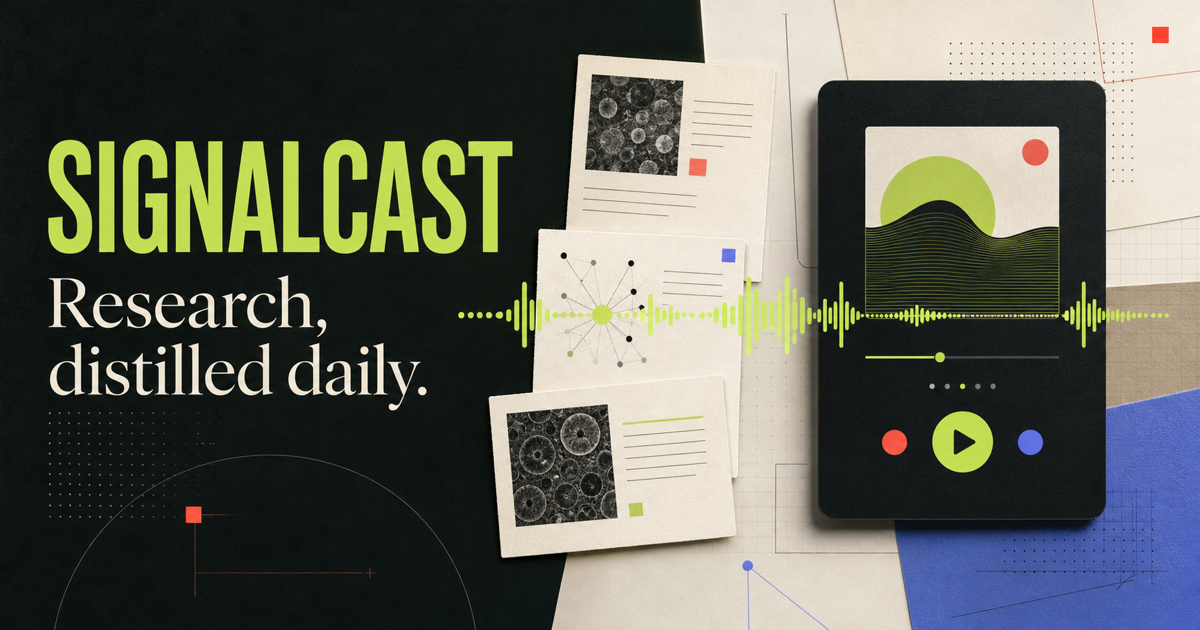
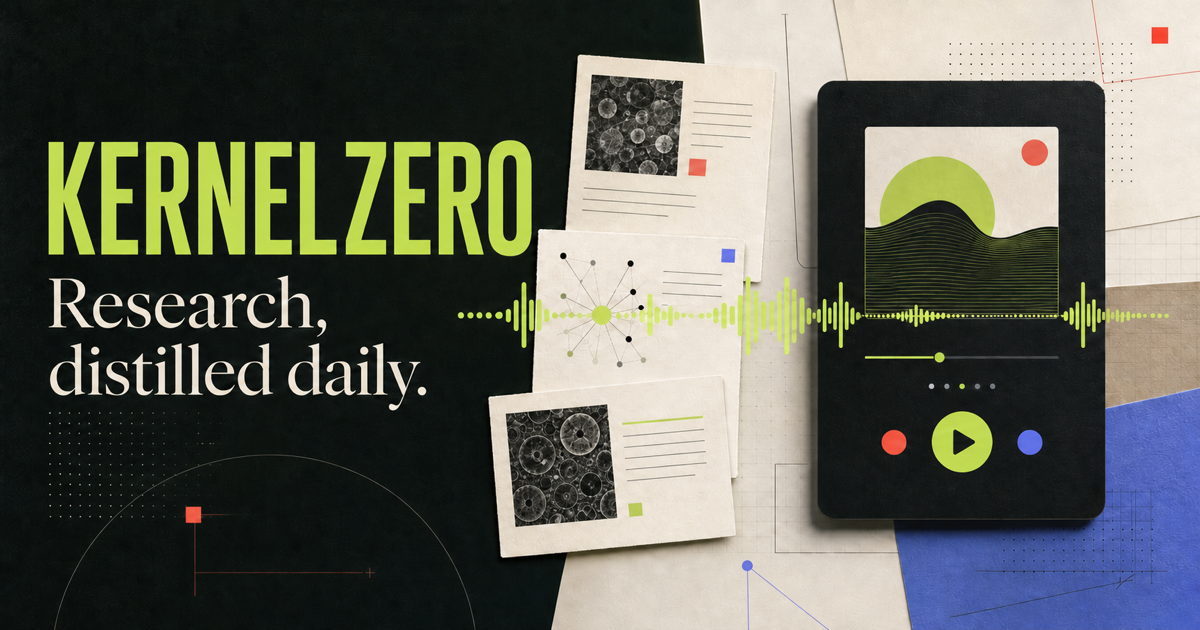
Identity pivot (#2)
* transcript enhanced and fixes

* vercel analytics added

* identity pivot

* removed AI depdency texts

diff --git a/lib/ollama.ts b/lib/ollama.ts
@@ -323,7 +323,7 @@ async function chat(
 const sectionPlans = [
   {
     title: "Why this matters",
-    direction: "Open with a concrete human hook, then include one brief, naturally worded sentence disclosing that the episode was written and narrated with AI. Include the same disclosure in the show notes, and never lead with it. Identify the central themes at a high level and explain why listeners should care. This is an overview only: do not include benchmark names, model names, detailed events, methods, findings, examples, or numbers that belong in later sections.",
+    direction: "Open with a concrete human hook. Identify the central themes at a high level and explain why listeners should care. This is an overview only: do not include benchmark names, model names, detailed events, methods, findings, examples, or numbers that belong in later sections.",
   },
   {
     title: "Background",
@@ -445,8 +445,8 @@ export function normalizePodcastPlan(
     };
   });
   const fallbackTitle = items[0]?.title
-    ? `SignalCast: ${items[0].title}`
-    : "SignalCast technology briefing";
+    ? `KernelZero: ${items[0].title}`
+    : "KernelZero technology briefing";
 
   return {
     title: typeof raw.title === "string" && raw.title.trim()
@@ -1369,8 +1369,6 @@ export async function createStructuredPodcast(
     dek: podcastPlan.dek,
     script: reviewedSections.map((section) => section.script.trim()).join("\n\n"),
     showNotes: [
-      "This episode was written and narrated with AI, then held for human review.",
-      "",
       "Sources:",
       ...items.map((item, index) => `${index + 1}. ${item.title} — ${item.canonicalUrl}`),
     ].join("\n"),
@@ -1433,7 +1431,7 @@ export async function synthesizeSpeech(script: string): Promise<ArrayBuffer> {
   if (process.platform !== "darwin") {
     throw new Error("Local speech synthesis currently requires macOS.");
   }
-  const workDir = await mkdtemp(join(tmpdir(), "signalcast-audio-"));
+  const workDir = await mkdtemp(join(tmpdir(), "kernelzero-audio-"));
   const scriptPath = join(workDir, "script.txt");
   const aiffPath = join(workDir, "speech.aiff");
   const mp3Path = join(workDir, "speech.mp3");

diff --git a/tests/core.test.ts b/tests/core.test.ts
@@ -450,7 +450,7 @@ test("draft regeneration payload preserves the current topic, text, and sources"
     durationSeconds: 180,
     status: "needs_approval",
     publishedAt: null,
-    immutableGuid: "signalcast:episode-current",
+    immutableGuid: "kernelzero:episode-current",
     generation: 3,
     createdAt: "2026-07-28T00:00:00.000Z",
   };
@@ -521,7 +521,7 @@ test("generation response keeps returned audio when refreshed state is stale", (
     durationSeconds: 488,
     status: "needs_approval",
     publishedAt: null,
-    immutableGuid: "signalcast:episode-regenerated",
+    immutableGuid: "kernelzero:episode-regenerated",
     generation: 2,
     createdAt: "2026-07-28T00:00:00.000Z",
   };
@@ -1001,7 +1001,7 @@ test("Ollama pipeline fans out writers and fans in parallel critics", async () =
     const user = body.messages[1]?.content ?? "";
     if (system.includes("planning editor")) {
       return ndjson({
-        title: "Parallel SignalCast",
+        title: "Parallel KernelZero",
         dek: "A quality-preserving parallel briefing.",
         facts: [{
           id: "F1",
@@ -1043,7 +1043,7 @@ test("Ollama pipeline fans out writers and fans in parallel critics", async () =
       "daily_digest",
       "brief",
     );
-    assert.equal(generated.title, "Parallel SignalCast");
+    assert.equal(generated.title, "Parallel KernelZero");
     assert.equal(countScriptWords(generated.script), 405);
     assert.equal(generated.script.split(/\n\s*\n/).length, 7);
     assert.equal(peak, 3);
@@ -1439,13 +1439,9 @@ test("generation rewrites an intro-sized response before creating an episode", a
       initialBody.input[0].content[0].text,
       /adult male podcast host/,
     );
-    assert.match(
-      initialBody.input[1].content[0].text,
-      /After that hook, include one brief, naturally worded sentence disclosing/,
-    );
     assert.doesNotMatch(
       initialBody.input[1].content[0].text,
-      /Open with an AI-narration disclosure|Put the AI-writing and narration disclosure in showNotes/,
+      /disclos|narrated with A\s*I|human review/i,
     );
     assert.match(
       resizeBody.input[0].content[0].text,

diff --git a/lib/openai.ts b/lib/openai.ts
@@ -109,7 +109,7 @@ async function createStructuredPodcast(
               type: "input_text",
               text: `${episodeLengthInstruction(episodeType, episodeLength)}
 
-Required arc: why it matters; background; method or mechanism; findings; limitations; practical impact; what to watch next. Begin the spoken script with a concrete human hook. After that hook, include one brief, naturally worded sentence disclosing that the episode was written and narrated with AI; include the same disclosure in showNotes. Do not lead with the disclosure. Build depth through clear explanations, source-by-source comparisons, transitions, and uncertainty—not repetition or invented facts. A fact is already covered even if another source describes it in different words. Do not repeat an event, example, number, mechanism, finding, or explanation across paragraphs. Do not read citations aloud, but make show notes source-complete. The claim ledger must cover every quantitative or attributed claim.
+Required arc: why it matters; background; method or mechanism; findings; limitations; practical impact; what to watch next. Begin the spoken script with a concrete human hook. Build depth through clear explanations, source-by-source comparisons, transitions, and uncertainty—not repetition or invented facts. A fact is already covered even if another source describes it in different words. Do not repeat an event, example, number, mechanism, finding, or explanation across paragraphs. Do not read citations aloud, but make show notes source-complete. The claim ledger must cover every quantitative or attributed claim.
 ${podcastRegenerationInstruction(regeneration)}
 
 SOURCE PACKET:
@@ -534,7 +534,7 @@ export async function generatePodcast(
       durationSeconds,
       status: "needs_approval",
       publishedAt: null,
-      immutableGuid: `signalcast:${episodeId}`,
+      immutableGuid: `kernelzero:${episodeId}`,
       generation: 1,
       createdAt: now,
     },

diff --git a/lib/gemini.ts b/lib/gemini.ts
@@ -107,7 +107,7 @@ export async function createStructuredPodcast(
           {
             text: `${episodeLengthInstruction(episodeType, episodeLength)}
 
-Required arc: why it matters; background; method or mechanism; findings; limitations; practical impact; what to watch next. Begin the spoken script with a concrete human hook. After that hook, include one brief, naturally worded sentence disclosing that the episode was written and narrated with AI; include the same disclosure in showNotes. Do not lead with the disclosure. Build depth through clear explanations, source-by-source comparisons, transitions, and uncertainty—not repetition or invented facts. A fact is already covered even if another source describes it in different words. Do not repeat an event, example, number, mechanism, finding, or explanation across paragraphs. Do not read citations aloud, but make show notes source-complete. The claim ledger must cover every quantitative or attributed claim.
+Required arc: why it matters; background; method or mechanism; findings; limitations; practical impact; what to watch next. Begin the spoken script with a concrete human hook. Build depth through clear explanations, source-by-source comparisons, transitions, and uncertainty—not repetition or invented facts. A fact is already covered even if another source describes it in different words. Do not repeat an event, example, number, mechanism, finding, or explanation across paragraphs. Do not read citations aloud, but make show notes source-complete. The claim ledger must cover every quantitative or attributed claim.
 ${podcastRegenerationInstruction(regeneration)}
 
 SOURCE PACKET:

diff --git a/app/feed.xml/route.ts b/app/feed.xml/route.ts
@@ -7,7 +7,7 @@ export async function GET(request: Request) {
   const configuredBase = process.env.PODCAST_BASE_URL?.replace(/\/$/, "");
   const requestUrl = new URL(request.url);
   const baseUrl = configuredBase || requestUrl.origin;
-  const title = process.env.PODCAST_TITLE || "SignalCast Daily";
+  const title = process.env.PODCAST_TITLE || "KernelZero Daily";
   const description =
     process.env.PODCAST_DESCRIPTION ||
     "Research papers and technology shifts, distilled into clear daily audio.";
@@ -38,10 +38,10 @@ export async function GET(request: Request) {
   <link>${escapeXml(baseUrl)}</link>
   <description>${escapeXml(description)}</description>
   <language>en</language>
-  <copyright>© ${new Date().getUTCFullYear()} SignalCast</copyright>
-  <managingEditor>${escapeXml(email)} (SignalCast)</managingEditor>
-  <itunes:author>SignalCast</itunes:author>
-  <itunes:owner><itunes:name>SignalCast</itunes:name><itunes:email>${escapeXml(email)}</itunes:email></itunes:owner>
+  <copyright>© ${new Date().getUTCFullYear()} KernelZero</copyright>
+  <managingEditor>${escapeXml(email)} (KernelZero)</managingEditor>
+  <itunes:author>KernelZero</itunes:author>
+  <itunes:owner><itunes:name>KernelZero</itunes:name><itunes:email>${escapeXml(email)}</itunes:email></itunes:owner>
   <itunes:explicit>false</itunes:explicit>
   <itunes:category text="Technology" />
   <itunes:image href="${escapeXml(`${baseUrl}/podcast-cover.png`)}" />

diff --git a/app/layout.tsx b/app/layout.tsx
@@ -23,7 +23,7 @@ export async function generateMetadata(): Promise<Metadata> {
 
   return {
     metadataBase,
-    title: "SignalCast — Research, distilled daily",
+    title: "KernelZero — Research, distilled daily",
     description:
       "Discover important research, track emerging technology, and turn trusted sources into evidence-grounded podcasts.",
     icons: {
@@ -31,14 +31,14 @@ export async function generateMetadata(): Promise<Metadata> {
       shortcut: "/podcast-cover.png",
     },
     openGraph: {
-      title: "SignalCast — Research, distilled daily",
+      title: "KernelZero — Research, distilled daily",
       description:
         "A personal research intelligence and podcast studio.",
-      images: [{ url: "/og.png", width: 1200, height: 630, alt: "SignalCast research intelligence dashboard" }],
+      images: [{ url: "/og.png", width: 1200, height: 630, alt: "KernelZero research intelligence dashboard" }],
     },
     twitter: {
       card: "summary_large_image",
-      title: "SignalCast — Research, distilled daily",
+      title: "KernelZero — Research, distilled daily",
       description: "A personal research intelligence and podcast studio.",
       images: ["/og.png"],
     },

diff --git a/app/api/cron/daily/route.ts b/app/api/cron/daily/route.ts
@@ -26,7 +26,7 @@ export async function GET(request: Request) {
     return Response.json({ error: "Invalid scheduler credential." }, { status: 401 });
   }
 
-  const ownerId = process.env.CRON_OWNER_EMAIL?.toLowerCase() || "local@signalcast.local";
+  const ownerId = process.env.CRON_OWNER_EMAIL?.toLowerCase() || "local@kernelzero.local";
   const dateParts = new Intl.DateTimeFormat("en", {
     timeZone: "Asia/Kolkata",
     year: "numeric",
@@ -85,7 +85,7 @@ export async function GET(request: Request) {
       throw new Error("No active local Chatterbox voice is configured for this cron owner. Save a voice in Settings before running the daily cron.");
     }
     if (voiceProfile && process.env.VERCEL) {
-      throw new Error("The selected Chatterbox voice is stored on this local SignalCast machine. Run the daily cron locally; a Vercel function cannot read the local reference recording or run Chatterbox.");
+      throw new Error("The selected Chatterbox voice is stored on this local KernelZero machine. Run the daily cron locally; a Vercel function cannot read the local reference recording or run Chatterbox.");
     }
     const discovered: typeof initialState.items = [];
     const warnings: string[] = [];

diff --git a/app/views/organic-settings-view.tsx b/app/views/organic-settings-view.tsx
@@ -118,7 +118,7 @@ function VoiceProfileSetup({
             className="organic-btn organic-btn-outline compact"
             disabled={busy}
             onClick={() => {
-              if (window.confirm("Remove this local voice reference from SignalCast? The uploaded sample will be deleted from this machine.")) {
+              if (window.confirm("Remove this local voice reference from KernelZero? The uploaded sample will be deleted from this machine.")) {
                 void (async () => {
                   setBusy(true);
                   try {
@@ -137,7 +137,7 @@ function VoiceProfileSetup({
         )}
       </div>
       <p className="organic-voice-copy">
-        The reference recording stays on this SignalCast machine. Supabase stores only a local file key,
+        The reference recording stays on this KernelZero machine. Supabase stores only a local file key,
         never the audio itself. It is used only after the speaker gives consent.
       </p>
       <form className="organic-voice-form" onSubmit={(event) => void submit(event)}>

diff --git a/lib/evidence-verification.ts b/lib/evidence-verification.ts
@@ -5,8 +5,8 @@ export const EVIDENCE_VERIFICATION_PROMPT =
   "FAIL only for unsupported exact numbers, direct quotes, author names, affiliations, " +
   "publication or peer-review status, or paper-specific methods and results. " +
   "Do not fail generic qualitative background, common-knowledge context, transitions, " +
-  "clearly framed possibilities, host recommendations, the AI-narration disclosure, or " +
-  "descriptions of SignalCast. Statements that LLMs are broadly capable, that large models " +
+  "clearly framed possibilities, host recommendations, or descriptions of KernelZero. " +
+  "Statements that LLMs are broadly capable, that large models " +
   "require substantial compute, or that inference has cost and latency trade-offs are generic " +
   "background and must not cause FAIL unless the script adds unsupported specific figures or " +
   "falsely attributes them to a supplied source. Reasonable paraphrases of source themes are " +

diff --git a/app/components/organic/app-shell.tsx b/app/components/organic/app-shell.tsx
@@ -60,7 +60,7 @@ export function OrganicAppShell({
     <div className="organic-app">
       <aside className="organic-sidebar">
         <div className="organic-brand-block">
-          <h1 className="organic-brand-title">SignalCast</h1>
+          <h1 className="organic-brand-title">KernelZero</h1>
           <p className="organic-brand-sub">AI Production Tool</p>
         </div>
 
@@ -102,7 +102,7 @@ export function OrganicAppShell({
 
         {!immersive && (
           <footer className="organic-footer">
-            <span>© {footerYear} SignalCast AI Production</span>
+            <span>© {footerYear} KernelZero AI Production</span>
             <div className="organic-footer-links">
               <button type="button" onClick={() => onFooterAction?.("Privacy Policy")}>Privacy Policy</button>
               <button type="button" onClick={() => onFooterAction?.("Terms of Service")}>Terms of Service</button>

diff --git a/app/api/episodes/[id]/audio/route.ts b/app/api/episodes/[id]/audio/route.ts
@@ -13,7 +13,7 @@ export async function POST(_request: Request, context: { params: Promise<{ id: s
     const [episode, voiceProfile] = await Promise.all([findEpisode(ownerId, id), getActiveVoiceProfile(ownerId)]);
     if (!episode) return Response.json({ error: "Episode not found." }, { status: 404 });
     if (!voiceProfile) return Response.json({ error: "Choose a local Chatterbox narrator before regenerating audio." }, { status: 400 });
-    if (process.env.VERCEL) return Response.json({ error: "Regenerate local Chatterbox audio from the local SignalCast server, not Vercel." }, { status: 400 });
+    if (process.env.VERCEL) return Response.json({ error: "Regenerate local Chatterbox audio from the local KernelZero server, not Vercel." }, { status: 400 });
     const generated = await synthesizeChatterboxSpeechWithMetadata(
       episode.script,
       voiceProfile.sampleKey,

diff --git a/lib/store.ts b/lib/store.ts
@@ -32,7 +32,7 @@ async function ensureOwner(ownerId: string) {
   const { data, error: lookupError } = await db.from("profiles").select("id").eq("id", ownerId).maybeSingle();
   if (lookupError) throw new Error(`Unable to initialize profile: ${lookupError.message}`);
   if (data) return;
-  const { error } = await db.from("profiles").insert({ id: ownerId, email: ownerId, display_name: ownerId.split("@")[0] || "SignalCast user", timezone: "Asia/Kolkata", daily_budget_usd: 2 });
+  const { error } = await db.from("profiles").insert({ id: ownerId, email: ownerId, display_name: ownerId.split("@")[0] || "KernelZero user", timezone: "Asia/Kolkata", daily_budget_usd: 2 });
   if (error && !/duplicate key/i.test(error.message)) throw new Error(`Unable to initialize profile: ${error.message}`);
 }
 
